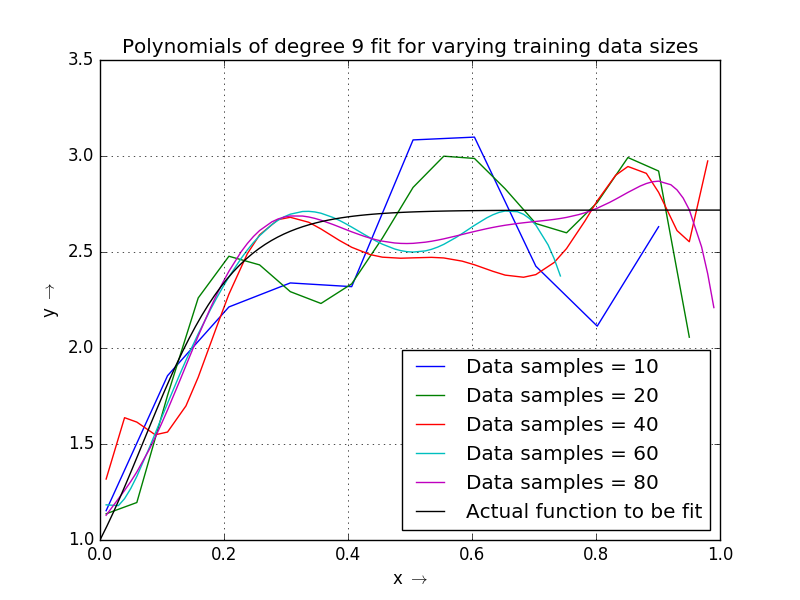
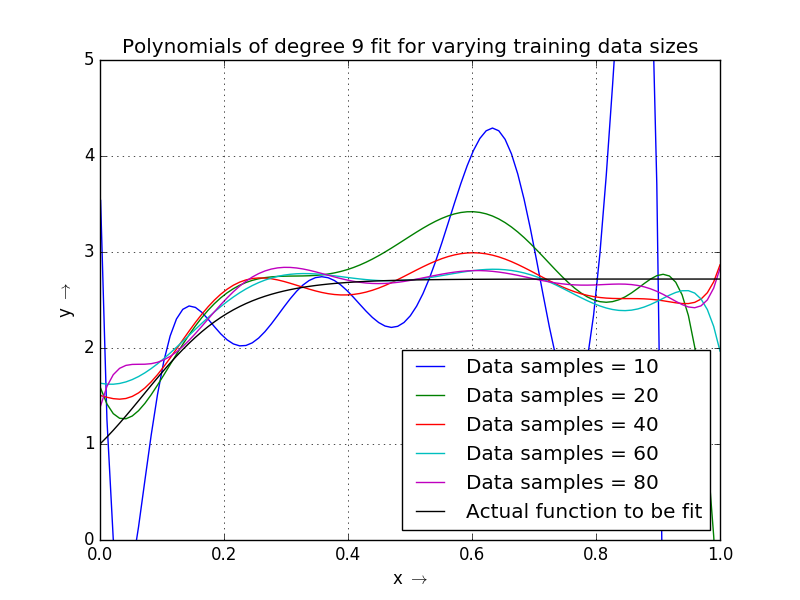
updated sadi

diff --git a/PA1/Q6/main.py b/PA1/Q6/main.py
@@ -11,7 +11,7 @@ def polynomial_regression(data_train,data_test):
 	'''
 	Performs polynomial regression on the training data and evaluates it on the test data
 	'''
-	N = 80 # Size of dataset for training
+	N = 10 # Size of dataset for training
 	data_indices = np.arange(0,80,80//N)[:N]
 	data = data_train[data_indices] # Part of total training data used for regression
 
@@ -53,11 +53,12 @@ def polynomial_regression(data_train,data_test):
 		# Plotting regression output
 		plt.title('Plot of target function and the polynomial fit\n Degree = {}'.format(degrees[d]))
 		plt.plot(x_plot,func(x_plot),'k',label = "Actual function to be fit")
+		plt.plot(data[:,0],data[:,1],'bo', label = 'Data points with noise')
 		plt.plot(x_plot,np.matmul(A_plot[:,:degrees[d]+1],w),label = "Polynomial fit")
 		plt.xlabel(r'x $\rightarrow$')
 		plt.ylabel(r'y $\rightarrow$')
 		plt.ylim([0,4])
-		plt.legend()
+		plt.legend(loc="lower right")
 		plt.grid()
 		#plt.savefig('plots/ten_points_degree_{}.jpg'.format(degrees[d]))
 		#plt.show()
@@ -84,8 +85,8 @@ def polynomial_regression(data_train,data_test):
 			plt.legend()
 			plt.xlabel(r'Target Output $\rightarrow$')
 			plt.ylabel(r'Model Output $\rightarrow$')
-			#plt.savefig('plots/scatter_output_test.jpg')
 			plt.grid()
+			#plt.savefig('plots/scatter_output_test.jpg')
 			plt.show()
 		"""
 
@@ -114,17 +115,17 @@ def polynomial_regression(data_train,data_test):
 	plt.xlabel(r'Degree of polynomial $\rightarrow$')
 	plt.ylabel(r'RMS Error $\rightarrow$')
 	#plt.savefig('plots/eighty_points_rms_error.jpg')
-	plt.show()
+	#plt.show()
 
 	min_test_err_degrees = degrees[np.argmin(test_err)]
 
 	# Varying the training data size
 	plt.clf()
-	N_list = [20,40,60,80]
+	N_list = [10,20,40,60,80]
 	A_train = np.ones((80,10)) # Matrix for training
 	A_test = np.ones((20,10)) # Matrix for testing
-	test_err = np.zeros(4)
-	train_err = np.zeros(4)
+	test_err = np.zeros(5)
+	train_err = np.zeros(5)
 
 	# Generating the A matrix
 	for i in range(0,10):
@@ -134,10 +135,9 @@ def polynomial_regression(data_train,data_test):
 	# Vary degree of polynomial from 1 to 9
 	for d in range(4):
 		plt.title("Polynomials of degree {} fit for varying training data sizes".format(degrees[d]))
-		plt.plot(data[:,0],y_fit[:,d],label = "Data samples = 10")
 		# Change the data set size
-		for n in range(4):
-			data_indices = np.arange(0,80,80//N_list[n])[:N_list[n]]
+		for n in range(5):
+			data_indices = np.arange(0,80,80/N_list[n])[:N_list[n]].astype(np.int)
 			data_n = data_train[data_indices] # Part of total training data used for regression
 			A_train_n = A_train[data_indices,:degrees[d]+1] # Part of A matrix required
 			w = np.matmul(np.matmul(np.linalg.inv(np.matmul(A_train_n.T,A_train_n)),A_train_n.T),data_n[:,1]) # Least Squares Solution
@@ -147,14 +147,15 @@ def polynomial_regression(data_train,data_test):
 			test_err[n] = np.linalg.norm(data_test[:,1] - np.matmul(A_test[:,:degrees[d]+1],w))/(20**0.5)
 			train_err[n] = np.linalg.norm(data_n[:,1] - y_fit_n)/(N_list[n]**0.5)
 
-			plt.plot(data_n[:,0],y_fit_n, label = "Data samples = {}".format(N_list[n]))
+			plt.plot(x_plot,np.matmul(A_plot[:,:degrees[d]+1],w), label = "Data samples = {}".format(N_list[n]))
 		plt.plot(x_plot,func(x_plot),'k',label = "Actual function to be fit")
 		plt.legend(loc='lower right')
 		plt.xlabel(r'x $\rightarrow$')
 		plt.ylabel(r'y $\rightarrow$')
 		plt.grid()
-		#plt.savefig('plots/fit_varying_data_size_deg_{}'.format(degrees[d]))
-		#plt.show()
+		plt.ylim([0,5])
+		plt.savefig('plots/fit_varying_data_size_deg_{}'.format(degrees[d]))
+		plt.show()
 
 		"""
 		plt.title("Variation of RMS Error with different training data sizes for polynomial of degree {}".format(N_list[n]))

diff --git a/PA1/Q4/main.py b/PA1/Q4/main.py
@@ -10,15 +10,15 @@ def main():
 	x = np.random.normal(np.repeat(c,100,1),0.12) # Added gaussian noise to the columns to reduce correlation
 
 	# Use the following x for the uncorrelated case
-	# x = np.random.normal(np.random.uniform(-0.1,1.1,(100,100)),0.3,(100,100))
+	#x = np.random.normal(np.random.uniform(-0.5,0.2,(100,100)),0.2)
 
 	# Ensuring all values are between 0 and 1
-	x[np.where(x>1)] = 1
-	x[np.where(x<0)] = 0
+	x[np.where(x>1)] = 1-1e-5
+	x[np.where(x<0)] = 1e-5
 
 	corr = np.corrcoef(x.T)
 	print("Rank of the matrix is {}".format(np.linalg.matrix_rank(x)))
-	print(corr)
+	print("Correlation matrix is {}".format(corr))
 
 	s = np.sort(np.linalg.eig(np.matmul(x,x.T))[0])[::-1]**0.5 # Finding singular values of x
 	
@@ -29,7 +29,6 @@ def main():
 	# PART B
 	large_sing_vals = np.linalg.norm(s[:10])
 	print("Fraction of frobenius norm captured by the largest 10 singular values: {}".format(large_sing_vals/fro_norm))
-	print("largest",s[0])
 
 	# PART C
 	av_contrib = 0
@@ -42,12 +41,22 @@ def main():
 
 	# Part D
 	s_square = np.square(s)
+	check50=check75=check95 = 0
 	summ = np.zeros(100)
 	for i in range(100):
-		summ[i] = np.sum(s_square[:i+1])**0.5
+		summ[i] = (np.sum(s_square[:i+1])**0.5)/fro_norm
+		if summ[i]>0.5 and check50 == 0:
+			print("Number of singular values required for 0.5 contribution is {}".format(i+1))
+			check50 = 1
+		elif summ[i]>0.75 and check75 == 0:
+			print("Number of singular values required for 0.75 contribution is {}".format(i+1))
+			check75 = 1
+		elif summ[i]>0.95 and check95 == 0:
+			print("Number of singular values required for 0.95 contribution is {}".format(i+1))
+			check95 = 1
 
 	plt.title("Contribution to the frobenius norm vs Number of singular vectors")
-	plt.plot(summ/fro_norm)
+	plt.plot(summ)
 	plt.grid()
 	plt.ylabel(r'Contribution to frobenius norm $\rightarrow$')
 	plt.xlabel(r'Number of singular vectors $\rightarrow$')
